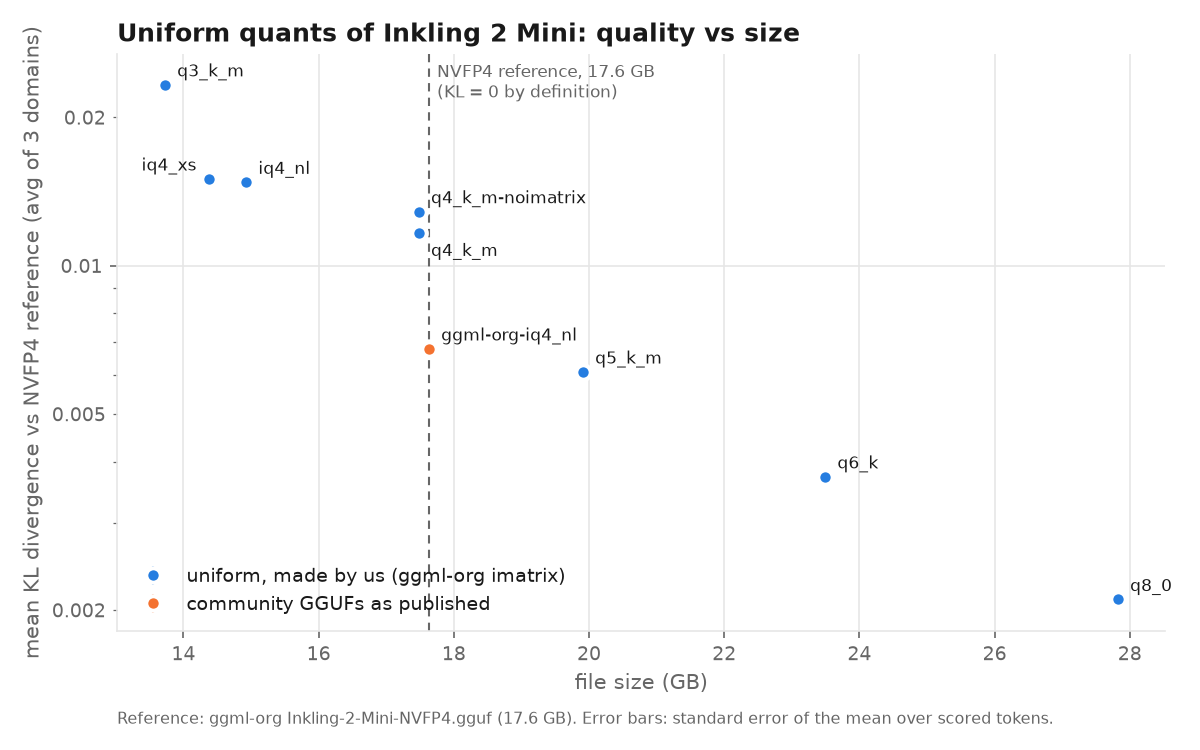
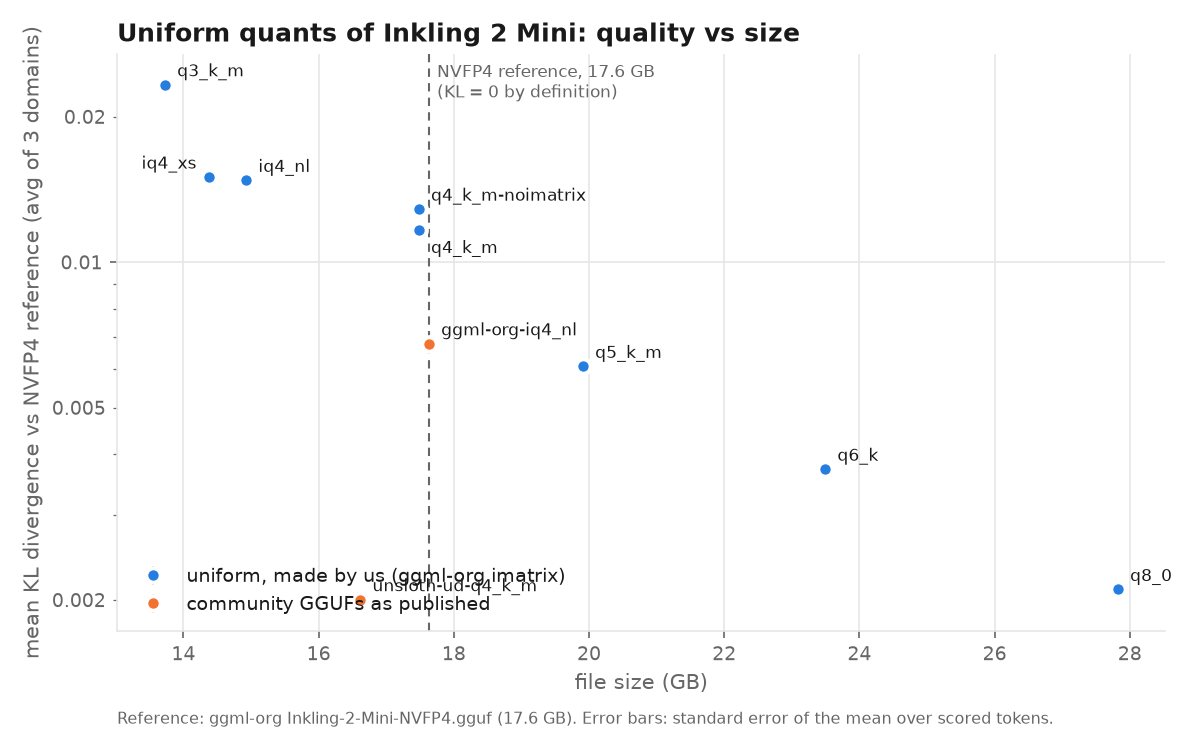
notebook: overnight headline, grid, BF16 check, phase 2 extension; charts

diff --git a/looptax/plots.py b/looptax/plots.py
@@ -14,6 +14,7 @@ import matplotlib
 matplotlib.use("Agg")
 import matplotlib.pyplot as plt  # noqa: E402
 import matplotlib.ticker  # noqa: E402
+import matplotlib.lines  # noqa: E402
 
 ROOT = pathlib.Path(__file__).resolve().parent.parent
 RESULTS = ROOT / "results"
@@ -105,6 +106,141 @@ def phase2():
              "weight error. Screening run; bars: standard error over tokens.", fontsize=7.5, color=TEXT2)
     fig.tight_layout(rect=(0, 0.02, 1, 0.97))
     out = ASSETS / "phase2_scan_normalised.png"
+    fig.savefig(out, facecolor=SURFACE)
+    print(out)
+
+
+CAT_COLOR = {"loop": SERIES[1], "prelude": "#6a4ce2", "coda": SERIES[0]}
+CAT_LABEL = {"loop": "loop (reused every pass)", "prelude": "prelude (injected into every pass)",
+             "coda": "coda (runs once, control)"}
+
+
+def headline():
+    import json
+    fits = json.load(open(RESULTS / "phase4-passes" / "alpha_fit.json"))
+    fig, axes = plt.subplots(1, 3, figsize=(13, 4.6), dpi=150, gridspec_kw={"width_ratios": [1, 1, 1.15]})
+    import math
+    for ax, qt in zip(axes[:2], ("Q2_K", "Q4_0")):
+        style(ax, f"one block at {qt}", "loop passes N", "KL vs reference at the same N")
+        # de-overlap the N = 1 labels in log space
+        sub = sorted((r for r in fits if r["qtype"] == qt), key=lambda r: r["kl_mean_by_passes"]["1"])
+        pos, last = {}, None
+        for r in sub:
+            y = math.log10(r["kl_mean_by_passes"]["1"])
+            y = y if last is None or y - last > 0.035 else last + 0.035
+            pos[r["variant"]], last = 10 ** y, y
+        for r in sub:
+            ns = sorted(int(n) for n in r["kl_mean_by_passes"])
+            ys = [r["kl_mean_by_passes"][str(n)] for n in ns]
+            tr = [i for i, n in enumerate(ns) if n <= 5]
+            c = CAT_COLOR[r["category"]]
+            ax.plot([ns[i] for i in tr], [ys[i] for i in tr], color=c, lw=2, marker="o", ms=5, mec=SURFACE, mew=1.5)
+            ex = [i for i, n in enumerate(ns) if n > 5]
+            ax.plot([ns[i] for i in ex], [ys[i] for i in ex], ls="none", marker="o", ms=5, mfc=SURFACE, mec=c, mew=1.5)
+            ax.annotate(f"blk {r['block']}", (ns[0], ys[0]), xytext=(0.93, pos[r["variant"]]), textcoords="data",
+                        fontsize=7, color=TEXT, va="center", ha="right")
+        ax.set_xscale("log"); ax.set_yscale("log")
+        ax.set_xlim(0.72, 6.6)
+        ax.set_xticks([1, 2, 3, 4, 5, 6]); ax.set_xticklabels(["1", "2", "3", "4", "5", "6*"])
+        ax.yaxis.set_major_formatter(matplotlib.ticker.FuncFormatter(lambda v, _: f"{v:g}"))
+        ax.yaxis.set_minor_formatter(matplotlib.ticker.FuncFormatter(lambda v, _: f"{v:g}" if f"{v:.0e}"[0] in "25" else ""))
+    ax = axes[2]
+    style(ax, "fitted exponent, KL ~ N^alpha", "alpha (N = 1-5, 95% bootstrap CI)", "")
+    order = sorted(fits, key=lambda r: ({"loop": 0, "prelude": 1, "coda": 2}[r["category"]], r["qtype"], r["block"]))
+    for i, r in enumerate(order):
+        c = CAT_COLOR[r["category"]]
+        lo, hi = r["alpha_ci95"]
+        ax.plot([lo, hi], [i, i], color=c, lw=2)
+        ax.plot([r["alpha"]], [i], "o", color=c, ms=6, mec=SURFACE, mew=1.5)
+    for x, lab in ((0, "no effect"), (1, "independent"), (2, "coherent")):
+        ax.axvline(x, color=TEXT2, lw=0.8, ls=(0, (3, 3)))
+        ax.text(x, len(order) - 0.3, lab, fontsize=7, color=TEXT2, ha="center")
+    ax.set_yticks(range(len(order)))
+    ax.set_yticklabels([f"blk {r['block']} {r['qtype']}" for r in order], fontsize=8)
+    ax.set_xlim(-0.5, 2.3); ax.set_ylim(-0.7, len(order) + 0.2); ax.invert_yaxis()
+    ax.grid(axis="y", visible=False)
+    handles = [matplotlib.lines.Line2D([], [], color=CAT_COLOR[k], lw=2, marker="o", label=v) for k, v in CAT_LABEL.items()]
+    fig.legend(handles=handles, loc="lower center", ncol=3, frameon=False, fontsize=9, labelcolor=TEXT)
+    fig.suptitle("Same block, more loop passes: TML-d24-varloop-research", x=0.01, ha="left", color=TEXT,
+                 fontsize=12, fontweight="bold")
+    fig.text(0.01, 0.005, "KL averaged over wikitext (8 chunks) and code (4 chunks). 6* = never trained, hollow, not "
+             "in the fit. Screening run; held-out confirmation separate.", fontsize=7.5, color=TEXT2)
+    fig.tight_layout(rect=(0, 0.08, 1, 0.95))
+    out = ASSETS / "headline_passes.png"
+    fig.savefig(out, facecolor=SURFACE)
+    print(out)
+
+
+def grid():
+    import json
+    fig, axes = plt.subplots(1, 2, figsize=(11, 4.4), dpi=150)
+    names = [("reference", "NVFP4 (reference)"), ("uniform-iq4_xs", "IQ4_XS experts"),
+             ("uniform-q3_k", "Q3_K experts"), ("uniform-q2_k", "Q2_K experts")]
+    for k, (v, lab) in enumerate(names):
+        xs, kl, tg = [], [], []
+        for n in range(1, 6):
+            d = json.load(open(RESULTS / "phase4-passes" / f"{v}-p{n}.json"))
+            xs.append(n)
+            kl.append(sum(m["kld_mean"] for m in d["domains_vs3"].values()) / 2 if n != 3 or v != "reference" else None)
+            tg.append(d["speed"]["tg_tps"])
+        c = (["#191919"] + SERIES)[k]
+        segs, cur = [], []
+        for x, y in zip(xs, kl):
+            if y:
+                cur.append((x, y))
+            elif cur:
+                segs.append(cur); cur = []
+        segs.append(cur)
+        for j, seg in enumerate(segs):
+            axes[0].plot([p[0] for p in seg], [p[1] for p in seg], color=c, lw=2, marker="o", ms=5, mec=SURFACE,
+                         mew=1.5, label=lab if j == 0 else None)
+        axes[1].plot([t for t, y in zip(tg, kl) if y], [y for y in kl if y], color=c, lw=2, marker="o", ms=5,
+                     mec=SURFACE, mew=1.5, label=lab)
+        for t, y, n in zip(tg, kl, xs):
+            if y:
+                axes[1].annotate(f"{n}p", (t, y), xytext=(3, 3), textcoords="offset points", fontsize=7, color=TEXT2)
+    style(axes[0], "distance from the 3-pass reference", "loop passes N", "KL vs NVFP4 reference at N = 3")
+    style(axes[1], "quality vs decode speed", "decode tokens/s (M4 Pro, tg128)", "KL vs NVFP4 reference at N = 3")
+    for ax in axes:
+        ax.set_yscale("log")
+        ax.yaxis.set_major_formatter(matplotlib.ticker.FuncFormatter(lambda v, _: f"{v:g}"))
+    axes[0].legend(frameon=False, fontsize=8, labelcolor=TEXT)
+    axes[0].set_xticks([1, 2, 3, 4, 5])
+    axes[0].text(4.5, axes[0].get_ylim()[0] * 1.15, "black: reference at N = 3 is\nKL 0 by definition (not shown)",
+                 fontsize=7, color=TEXT2, ha="center")
+    fig.suptitle("Bits x loop passes (varloop checkpoint; gate/up experts at the stated type, down experts NVFP4)",
+                 x=0.01, ha="left", color=TEXT, fontsize=11, fontweight="bold")
+    fig.tight_layout(rect=(0, 0, 1, 0.94))
+    out = ASSETS / "grid_bits_passes.png"
+    fig.savefig(out, facecolor=SURFACE)
+    print(out)
+
+
+def bf16():
+    import json
+    import glob
+    rows = []
+    for f in glob.glob(str(RESULTS / "bf16check" / "*.json")):
+        d = json.load(open(f))
+        if d["role"] != "variant":
+            continue
+        dm = d["domains"]
+        kl = sum(v["kld_mean"] for v in dm.values()) / len(dm)
+        err = sum(v["kld_mean_err"] ** 2 for v in dm.values()) ** 0.5 / len(dm)
+        rows.append((d["variant"], d["weights"]["file_gb"], kl, err))
+    rows.sort(key=lambda r: r[2])
+    fig, ax = plt.subplots(figsize=(8, 3.8), dpi=150)
+    style(ax, "Distance from the BF16 weights (Inkling 2 Mini)", "mean KL vs BF16 GGUF (3 domains, 16 chunks)", "")
+    ys = range(len(rows))
+    ax.barh(list(ys), [r[2] for r in rows], xerr=[r[3] for r in rows], color=[SERIES[1] if r[0] == "ggml-org-nvfp4" else SERIES[0] for r in rows],
+            height=0.6, ecolor=TEXT2)
+    ax.set_yticks(list(ys))
+    ax.set_yticklabels([f"{r[0]} ({r[1]:.1f} GB)" for r in rows], fontsize=8)
+    ax.invert_yaxis(); ax.grid(axis="y", visible=False)
+    fig.text(0.01, 0.01, "Orange: the NVFP4 GGUF (original NVFP4 experts). BF16 = released NVFP4/MXFP8 values upcast. "
+             "-from-bf16 / -from-nvfp4: quantization source.", fontsize=7, color=TEXT2)
+    fig.tight_layout(rect=(0, 0.04, 1, 1))
+    out = ASSETS / "bf16_check.png"
     fig.savefig(out, facecolor=SURFACE)
     print(out)
 

diff --git a/notebook/LAB_NOTEBOOK.md b/notebook/LAB_NOTEBOOK.md
@@ -214,3 +214,68 @@ Checked that the pass override reaches the quantized runs: their perplexity trac
 not supported for this model; the extra sensitivity of middle blocks comes from position, not reuse. Not a finding
 until the remaining blocks are in and the held-out rerun (`configs/phase4_holdout.yaml`: blocks 9, 17, 20, 3 at
 N = 1, 3, 5, 24 chunks of disjoint text) agrees.
+
+## 2026-11-27 morning: overnight results (headline, grid, BF16 check, Phase 2 extension)
+
+The overnight queue finished at 06:11. Every result file was re-validated (metrics present, per-chunk sums present for
+Phase 4). Charts: `assets/headline_passes.png`, `assets/grid_bits_passes.png`, `assets/bf16_check.png`.
+
+**Headline (screening): quantization error of a reused block does not compound with passes.** One block perturbed,
+TML-d24-varloop-research run at N = 1-6 passes, KL vs the NVFP4R reference at the same N, wikitext 8 + code 4 chunks,
+fit KL = c N^alpha on N = 1-5 (`results/phase4-passes/alpha_fit.json`, 5000 paired bootstrap resamples over chunks).
+N = 6 was never trained and is shown but not fitted.
+
+| block | category | type | alpha N=1-5 [95% CI] | alpha N=2-5 [95% CI] | KL N=1 | KL N=3 | KL N=5 | KL N=6* |
+|---|---|---|---|---|---|---|---|---|
+| 3 | prelude | Q2_K | 0.00 [-0.08, 0.10] | -0.21 [-0.32, -0.10] | 0.00594 | 0.00662 | 0.00612 | 0.00623 |
+| 6 | loop | Q2_K | -0.06 [-0.13, 0.01] | -0.28 [-0.40, -0.16] | 0.00850 | 0.00873 | 0.00813 | 0.00827 |
+| 9 | loop | Q2_K | 0.19 [0.12, 0.26] | 0.04 [-0.08, 0.15] | 0.00835 | 0.01113 | 0.01165 | 0.01207 |
+| 12 | loop | Q2_K | 0.07 [-0.02, 0.14] | -0.12 [-0.23, -0.00] | 0.01185 | 0.01407 | 0.01374 | 0.01430 |
+| 17 | loop | Q2_K | 0.28 [0.22, 0.33] | 0.14 [0.07, 0.21] | 0.00788 | 0.01149 | 0.01253 | 0.01326 |
+| 20 | coda | Q2_K | 0.04 [-0.03, 0.12] | -0.04 [-0.10, 0.02] | 0.00594 | 0.00639 | 0.00635 | 0.00644 |
+| 22 | coda | Q2_K | -0.05 [-0.10, 0.02] | -0.13 [-0.18, -0.08] | 0.00534 | 0.00520 | 0.00505 | 0.00509 |
+| 3 | prelude | Q4_0 | 0.29 [0.19, 0.38] | 0.03 [-0.06, 0.10] | 0.00240 | 0.00375 | 0.00392 | 0.00436 |
+| 9 | loop | Q4_0 | 0.47 [0.38, 0.54] | 0.22 [0.13, 0.30] | 0.00196 | 0.00367 | 0.00434 | 0.00489 |
+| 20 | coda | Q4_0 | 0.01 [-0.04, 0.05] | -0.09 [-0.18, -0.01] | 0.00091 | 0.00094 | 0.00093 | 0.00094 |
+
+Reading: coherent compounding predicts alpha near 2, independent addition near 1. All loop blocks are far below 1:
+-0.06 to 0.28 at Q2_K, 0.47 for block 9 at Q4_0. Coda controls are flat (-0.05 to 0.04). Every curve, controls
+included, has a step from N = 1 to N = 2; pass 1 runs the loop with no cross-pass message and no controllers, so that
+step is a change of computation, not just of reuse count. Fitting N = 2-5 only: loop blocks -0.28 to 0.22, prelude
+-0.21 to 0.03, coda -0.13 to -0.04. Relative to the controls, loop blocks 9 and 17 grow slightly (about +0.2 to +0.3 in
+alpha), blocks 6 and 12 not at all. The extra sensitivity of loop blocks is mostly present already at N = 1, when the
+block runs once (block 12 at Q2_K: 0.0119 vs 0.0053-0.0059 for coda blocks): it comes with the position, not with
+reuse. The prelude, whose error is injected into every pass, behaves like the loop blocks at Q4_0 (alpha 0.29) and
+like the coda at Q2_K (0.00). Pending: held-out confirmation (`configs/phase4_holdout.yaml`, running).
+
+**Bits x passes grid** (gate/up experts at the stated type in all blocks, down experts NVFP4, attention Q8_0; KL vs
+the reference at N = 3, i.e. distance from the model as shipped; decode tok/s from llama-completion, tg128):
+NVFP4R 1p 0.0799 (61.0 tok/s), 2p 0.0355 (38.5), 4p 0.0109 (22.4), 5p 0.0165 (18.5); IQ4_XS 3p 0.0074 (27.7);
+Q3_K 2p 0.0481 (35.6), 3p 0.0166 (26.2); Q2_K 3p 0.0500 (28.8). Answer to "Q3 with 3 passes or more bits with 2?":
+Q3_K at 3 passes (0.0166) is closer to the shipped model than full-precision NVFP4R at 2 passes (0.0355). More than 3
+passes moves the model away from its 3-pass behaviour (perplexity flat: 5.606, 5.597, 5.592). Quantization cost at a
+given N (KL vs the reference at the same N) is flat from N = 2 to 5 for every bit width (IQ4_XS 0.0072-0.0074,
+Q3_K 0.0158-0.0166, Q2_K 0.0495-0.0513), with a lower value at N = 1. Quantizing all blocks shows the same picture as
+one block: no compounding.
+
+**BF16 check (CPU-only BF16 reference, 3 domains, 16 chunks; 2.8 h).** Mean KL vs BF16:
+ggml-org NVFP4 17.6 GB 0.00238; Q8_0 from BF16 27.8 GB 0.00261; ggml-org IQ4_NL 17.6 GB 0.00692;
+Q4_K_M 17.5 GB 0.01180 (from BF16) / 0.01166 (from NVFP4); IQ4_NL 14.9 GB 0.01474 / 0.01475. So the tentative Phase 1
+observation holds against BF16: at the same size, the NVFP4 file is about 5x closer to the released weights than
+Q4_K_M, and even closer than Q8_0. The quantization source (BF16 vs the NVFP4 file) makes no measurable difference, so
+the NVFP4-sourced Phases 1-3 stand. The NVFP4 file vs BF16 (0.0024) also bounds how much the NVFP4 reference itself
+differs from the release.
+
+**Phase 2 extension** (experts only and attention only, all 24 blocks, Q2_K). Mean KL x 1e-3, prelude / loop / coda:
+experts 4.22 / 4.19 / 2.27; attention 5.02 / 7.74 / 2.38 (peaks 11.8 at block 11, 10.4 at 17, 10.2 at 12, 8.6 at 16).
+Expert sensitivity does not distinguish loop from prelude; attention does, mostly in two global-attention layers and
+their neighbours. Weight-error normalisation for these 32 runs is running.
+
+**Community.** ggml-org IQ4_NL (experts of blocks 0-19 IQ4_NL, rest Q8_0, 17.6 GB): KL 0.0068 vs our NVFP4 reference;
+unsloth UD-Q4_K_M (keeps the NVFP4 experts, other tensors lower): 16.6 GB, KL 0.0020 vs our NVFP4 reference, 257 / 28
+tok/s. It is 1 GB smaller than the NVFP4 file at very small cost: the strongest same-size baseline so far, and the
+one any Phase 3 recipe has to beat.
+
+**Phase 3 queued** after the held-out run (`configs/phase3_recipes.yaml`, 19 recipes): uniform gate/up types, loop-hi
+and its mirror edge-hi at matched sizes, and an experts-guided greedy recipe ranked by the experts-only scan (it
+upgrades prelude and early-loop blocks and 16-17 first, coda last).
